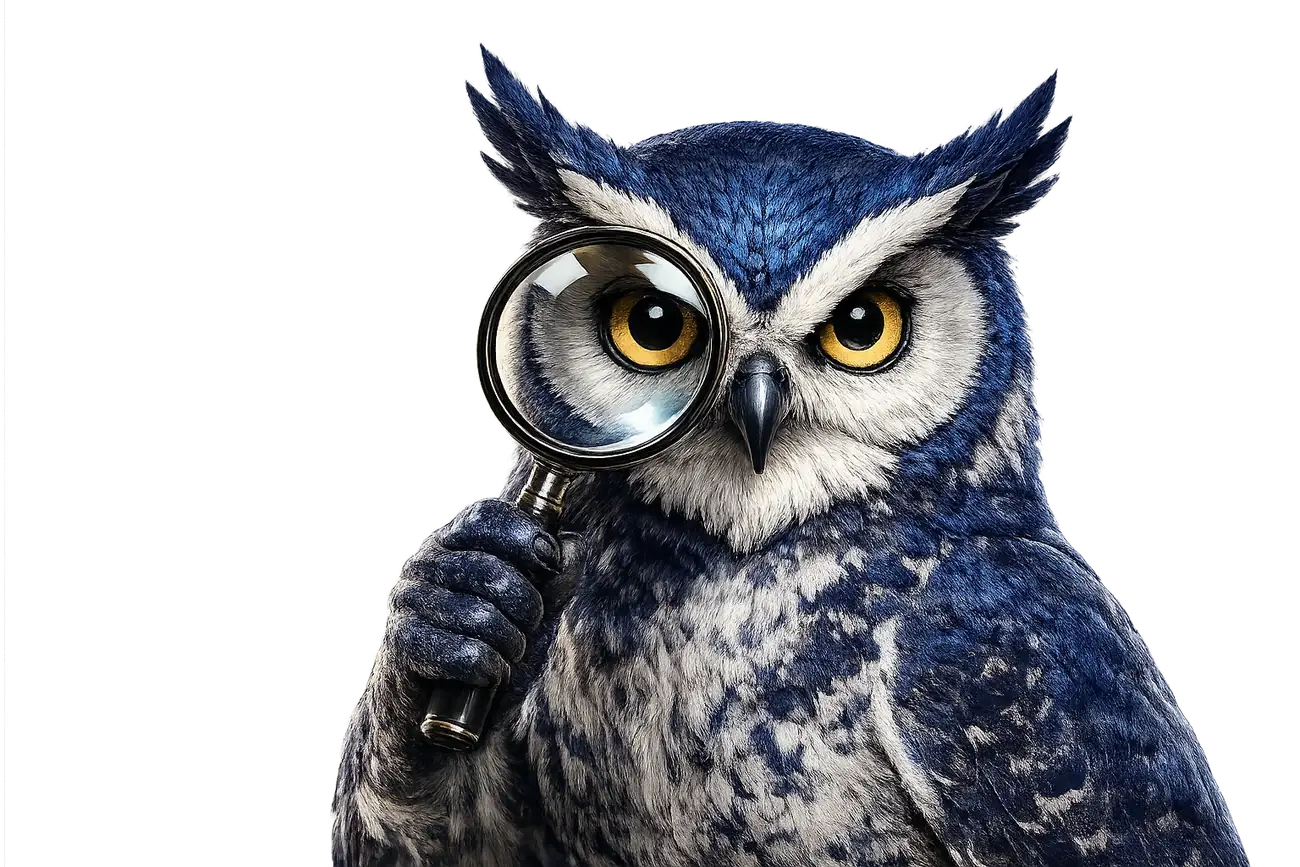
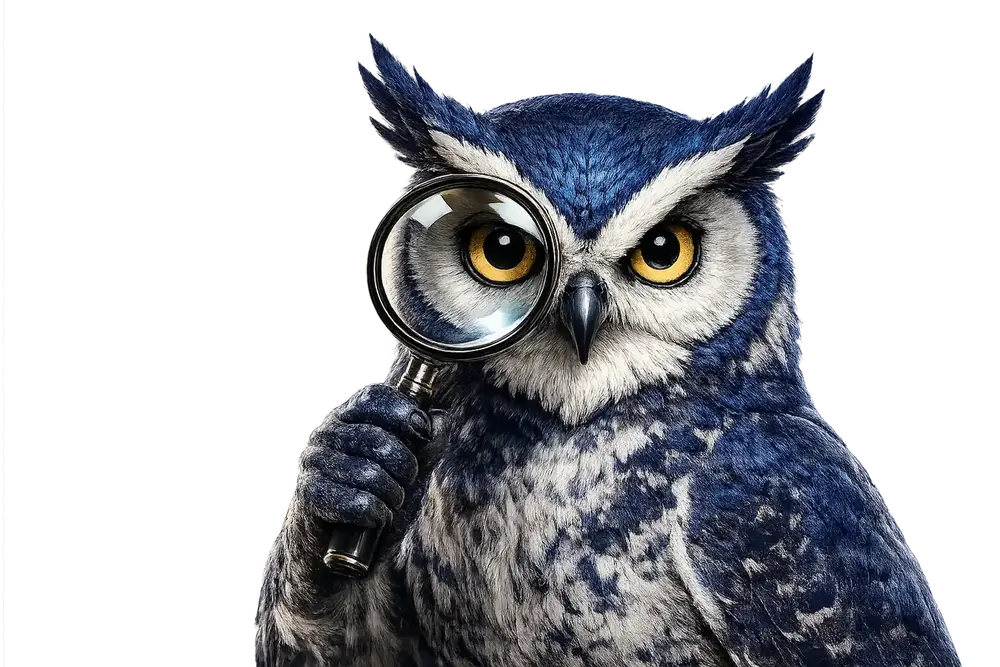
Add files via upload

diff --git a/index.html b/index.html
@@ -18,6 +18,9 @@
     <meta property="og:url" content="https://yapaseo.com/">
 
 <link rel="icon" type="image/png" sizes="192x192" href="https://yapaseo.com/assets/img/Favicon-yapaseo.png">
+<link rel="icon" type="image/png" sizes="32x32" href="https://yapaseo.com/assets/img/Favicon-yapaseo.png">
+<link rel="shortcut icon" href="https://yapaseo.com/assets/img/Favicon-yapaseo.png">
+<link rel="apple-touch-icon" href="https://yapaseo.com/assets/img/Favicon-yapaseo.png">
     
     <link rel="preload" as="image" href="assets/img/buho-yapaseo.webp" fetchpriority="high">
     <link rel="preload" href="assets/css/estilos.css?v=2" as="style">

diff --git a/articulos/index.html b/articulos/index.html
@@ -18,6 +18,9 @@
     <meta property="og:url" content="https://yapaseo.com/articulos/">
 
 <link rel="icon" type="image/png" sizes="192x192" href="https://yapaseo.com/assets/img/Favicon-yapaseo.png">
+<link rel="icon" type="image/png" sizes="32x32" href="https://yapaseo.com/assets/img/Favicon-yapaseo.png">
+<link rel="shortcut icon" href="https://yapaseo.com/assets/img/Favicon-yapaseo.png">
+<link rel="apple-touch-icon" href="https://yapaseo.com/assets/img/Favicon-yapaseo.png">
     
     <link rel="preconnect" href="https://cdnjs.cloudflare.com" crossorigin>
     <link rel="preconnect" href="https://fonts.googleapis.com">

diff --git a/servicios/index.html b/servicios/index.html
@@ -18,6 +18,9 @@
     <meta property="og:url" content="https://yapaseo.com/servicios/">
 
 <link rel="icon" type="image/png" sizes="192x192" href="https://yapaseo.com/assets/img/Favicon-yapaseo.png">
+<link rel="icon" type="image/png" sizes="32x32" href="https://yapaseo.com/assets/img/Favicon-yapaseo.png">
+<link rel="shortcut icon" href="https://yapaseo.com/assets/img/Favicon-yapaseo.png">
+<link rel="apple-touch-icon" href="https://yapaseo.com/assets/img/Favicon-yapaseo.png">
     
     <link rel="preconnect" href="https://cdnjs.cloudflare.com" crossorigin>
     <link rel="preconnect" href="https://fonts.googleapis.com">

diff --git a/nosotros/index.html b/nosotros/index.html
@@ -18,6 +18,9 @@
     <meta property="og:url" content="https://yapaseo.com/nosotros/">
 
 <link rel="icon" type="image/png" sizes="192x192" href="https://yapaseo.com/assets/img/Favicon-yapaseo.png">
+<link rel="icon" type="image/png" sizes="32x32" href="https://yapaseo.com/assets/img/Favicon-yapaseo.png">
+<link rel="shortcut icon" href="https://yapaseo.com/assets/img/Favicon-yapaseo.png">
+<link rel="apple-touch-icon" href="https://yapaseo.com/assets/img/Favicon-yapaseo.png">
     
     <link rel="preconnect" href="https://cdnjs.cloudflare.com" crossorigin>
     <link rel="preconnect" href="https://fonts.googleapis.com">
